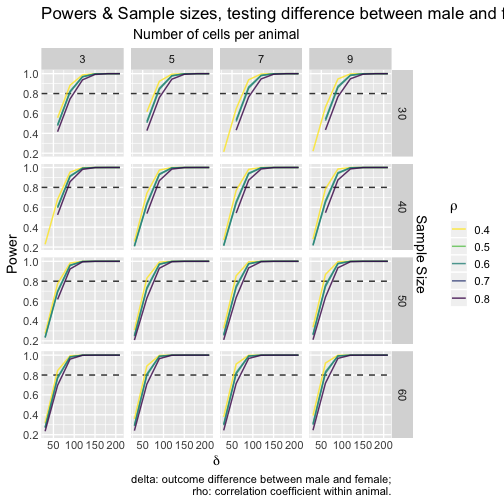
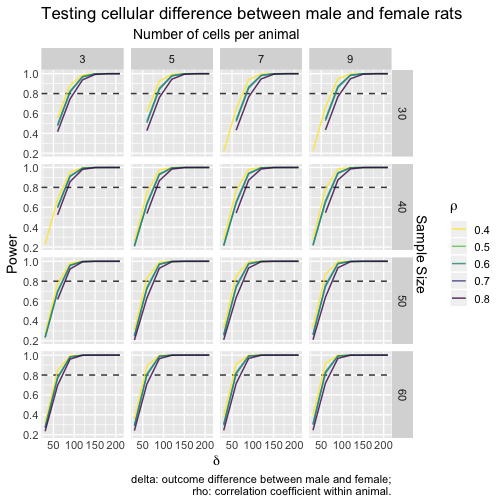
various updates

Changed region(s): [[0.0893, 0.0, 1.0, 0.0595]]

diff --git a/manuscript/03-03-boxplot.md b/manuscript/03-03-boxplot.md
@@ -47,7 +47,7 @@ error because `year` is integer type.
 
 A>
 ```r
-plt(xvar = "year", yvar = "budget") # throws error because "year" is integer
+plt(xvar = "year", yvar = "budget") # throws error since "year" is integer
 ```
 A>
 ```
@@ -60,8 +60,7 @@ A>
 ```r
 library(dplyr)
 plt = mk_boxplot(films %>% filter(year %in% 2010:2014) %>%
-                         mutate(year = factor(year))
-                 )
+                         mutate(year = factor(year)))
 plt("year", "budget", notched = T) # draw notched boxplot
 ```
 

diff --git a/manuscript/05-02-lineplot.md b/manuscript/05-02-lineplot.md
@@ -116,7 +116,7 @@ p = plt("delta", "Power", xvar_top = "csize", yvar_rt = "ssize", gpby = "rho",
 cap = "delta: outcome difference between male and female;
          rho: correlation coefficient within animal."
 add_labs(p, xlab = bquote(delta),
-         title = "Powers & Sample sizes, testing difference between male and female rats",
+         title = "Testing cellular difference between male and female rats",
          subtitle = "Number of cells per animal",
          caption = cap)
 ```
